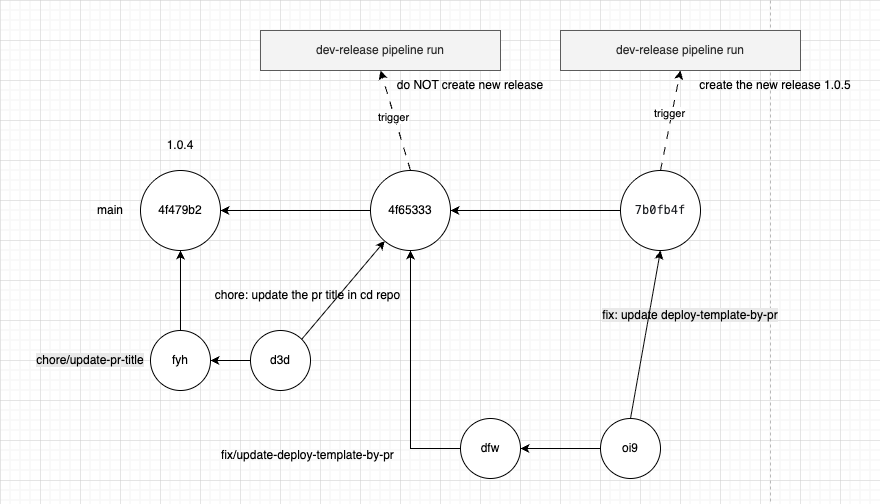
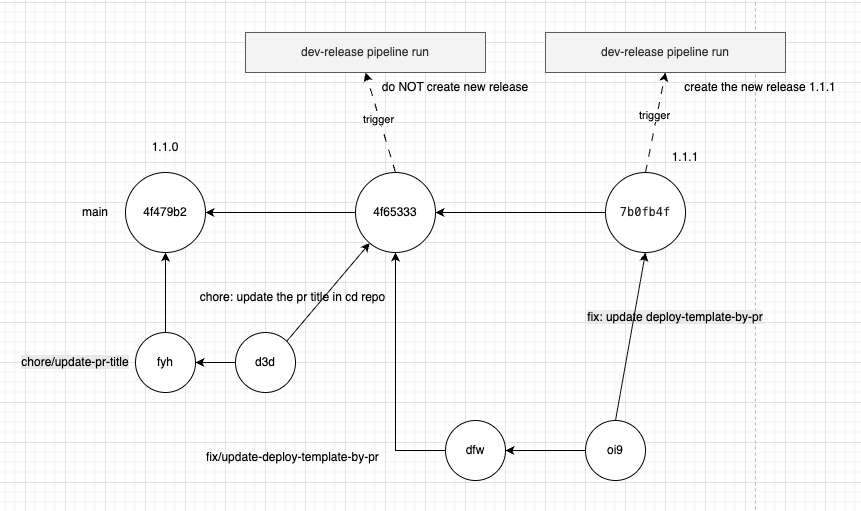
docs: update .github/docs/Readme.md (#369)
* docs: update .github/docs/Readme.md

* docs: update diagrams used by workflow readme

---------

diff --git a/.github/docs/Readme.md b/.github/docs/Readme.md
@@ -1,6 +1,6 @@
 # 1. CI/CD
 
-CI/CD stands for Continuous Integration and Continuous Delivery/Deployment, a practice that automates the process of building, testing, and releasing software.
+CI/CD (Continuous Integration and Continuous Delivery/Deployment) automates building, testing, and releasing software.
 
 [What is CI/CD] (https://www.geeksforgeeks.org/devops/what-is-ci-cd)
 
@@ -8,28 +8,29 @@ Zeva2 CI/CD Diagram:
 
 ![CI/CD diagram](CICD-diagram.png)
 
-- Zeva2 Code/CI(Continuous Integration) Repo is https://github.com/bcgov/zeva2.git
-- Zeva2 CD(Continuous Deployment) Repo is https://github.com/bcgov-c/tenant-gitops-ea8eab.git
-- GitHub Workflows monitor the Code Repo changes and update the configuration files in the CD repo.
-- ArgoCD monitors the configuration changes in the CD repo and deploy them to Openshift
+- Zeva2 code/CI repository: https://github.com/bcgov/zeva2.git
+- Zeva2 CD repository: https://github.com/bcgov-c/tenant-gitops-ea8eab.git
+- GitHub Workflows monitor code repository changes and update deployment configuration in the CD repository.
+- ArgoCD monitors CD repository changes and applies deployments to OpenShift.
 
 # 2. Trunk Based Development
 
-A source-control branching model, where developers collaborate on code in a single branch called ‘trunk’ or 'main', resist any pressure to create other long-lived development branches by employing documented techniques. They therefore avoid merge hell, do not break the build, and live happily ever after.
+Trunk-based development is a branching model where developers integrate frequently into a single primary branch (`main`).
+It minimizes long-lived branches, reduces merge conflicts, and keeps releases flowing from a stable trunk.
 
 - [Trunk Based Development Introduction](https://trunkbaseddevelopment.com)
 - [Trunk Based Development vs Git Flow](https://www.geeksforgeeks.org/devops/trunk-based-development-in-software-development/)
 
-This section summarizes the trunk-based development approach used by Zeva2, where short-lived branches
-merge frequently into main and releases are cut from a stable trunk. A sample Diagram illustrates how this model works:
+This section summarizes the Zeva2 approach, where short-lived branches merge frequently into `main` and releases are cut from trunk.
+A sample diagram illustrates this model:
 
 ![Trunk-based release model](zeva2-trunk-based-release-model.png)
 
-The principle of the Trunk Based Development:
+Principles of trunk-based development:
 
 - Keep changes small and incremental.
-- Create short‑lived branches from main.
-- Avoid long‑lived branches other than main.
+- Create short-lived branches from `main`.
+- Avoid long-lived branches other than `main`.
 - Review and merge PRs quickly (ideally within a day).
 - Use feature flags to ship safely and control rollout.
 - Require Conventional Commit messages.
@@ -45,7 +46,7 @@ https://github.com/semantic-release/semantic-release
 ## 2.2 Conventional Commit
 
 Conventional Commits provide a structured message format that semantic-release can parse to determine
-version bumps. They also make commit history easier to scan and automate.
+version bumps. They also make commit history easier to understand and automate.
 
 Simple conventional commit messages:
 
@@ -63,7 +64,7 @@ Simple conventional commit messages:
 With scopes:
 
 - feat(api): add pagination → Yes (minor release)
-- fix(ui): prevent double submit → Yes (minor release)
+- fix(ui): prevent double submit → Yes (patch release)
 - chore(ci): update GitHub actions → No
 - docs(README): add setup guide → No
 
@@ -73,7 +74,7 @@ Breaking changes:
 - refactor(auth)! : change token format → Yes (major release)
 - feat: remove legacy endpoint + BREAKING CHANGE: ... → Yes (major release)
 
-Semantic release commit message (auto generated by semantic release):
+Semantic-release commit message (auto generated by semantic-release):
 
 - chore(release): 1.2.3 [skip ci] → No (it’s the release commit itself, and [skip ci] prevents CI)
 
@@ -82,20 +83,38 @@ Semantic release commit message (auto generated by semantic release):
 Husky runs Git hooks locally to enforce commit standards (such as Conventional Commits) before code is
 committed. This helps keep commit history clean and compatible with semantic-release.
 
-# 3. Hotfix Release to Test
+# 3. Promote Release to Test
 
-Here is a sample process for how to release a host fix to Test environment.
+Use this process to promote a validated Dev release to Test.
 
-The version deployed on Test is 1.1.0, business team found a bug and need to emergency fix.
+1. Confirm the target version is already deployed to Dev and has passed validation.
+2. Manually run the workflow **Promote to Test (RC Release)**.
+3. Enter the version to promote.
+4. Review the PR created in the CD repository:
+   - Verify the PR description and target version.
+   - Confirm the target version is newer than the currently deployed Test version.
+   - If the PR indicates a backward deployment, confirm with Developers/DevOps before merging.
+5. Approve and merge the PR.
+6. After merge, ArgoCD deploys the new version to Test automatically.
 
-- Create branch from tag
-  - git checkout -b hotfix/1.1.0 v1.1.0
-  - git push -u origin hotfix/1.1.0
-- Add fix commit(s) on that branch with conventional commit (e.g. fix: ...) and push.
-- Manually start the "Hotfix to Test (Emergency Release)" workflow using branch hotfix/1.1.0.
-- Expected version from semantic-release: 1.1.1-hotfix.1 (then .2, .3 on further hotfix commits).
+# 4. Hotfix Release to Test
 
-# 4. Caller Workflows
+Use this process for emergency fixes on Test without pulling unrelated changes from `main`.
+
+Example: Test is currently on `1.1.0` and a production issue requires an urgent fix.
+
+1. Create a hotfix branch from the deployed Test tag:
+   - `git checkout -b hotfix/1.1.0 v1.1.0`
+   - `git push -u origin hotfix/1.1.0`
+2. Add only the emergency fix changes on that branch and commit with Conventional Commits (for example: `fix: ...`).
+3. Manually run **Hotfix to Test (Emergency Release)** using branch `hotfix/1.1.0`.
+4. Verify the generated hotfix version (for example: `1.1.1-hotfix.1`, then `.2`, `.3` for additional hotfix commits).
+5. Review and merge the Test deployment PR created in the CD repository.
+6. Review and merge the auto-created PR from the hotfix branch back to `main` to keep trunk aligned.
+
+![Hotfix](hotfix.png)
+
+# 5. Caller Workflows
 
 - [release-dev.yaml](../workflows/dev-release.yml)
 - [promote-test.yaml](../workflows/promote-test.yml)
@@ -108,7 +127,7 @@ The version deployed on Test is 1.1.0, business team found a bug and need to eme
 - [hotfix-test.yaml](../workflows/hotfix-test.yml)
 - [pr-commit-lint.yaml](../workflows/pr-commit-lint.yaml)
 
-# 5. Reuseable Workflows
+# 6. Reuseable Workflows
 
 - [install-oc-template.yaml](../workflows/install-oc-template.yaml)
 - [build-template.yaml](../workflows/build-template.yaml)
